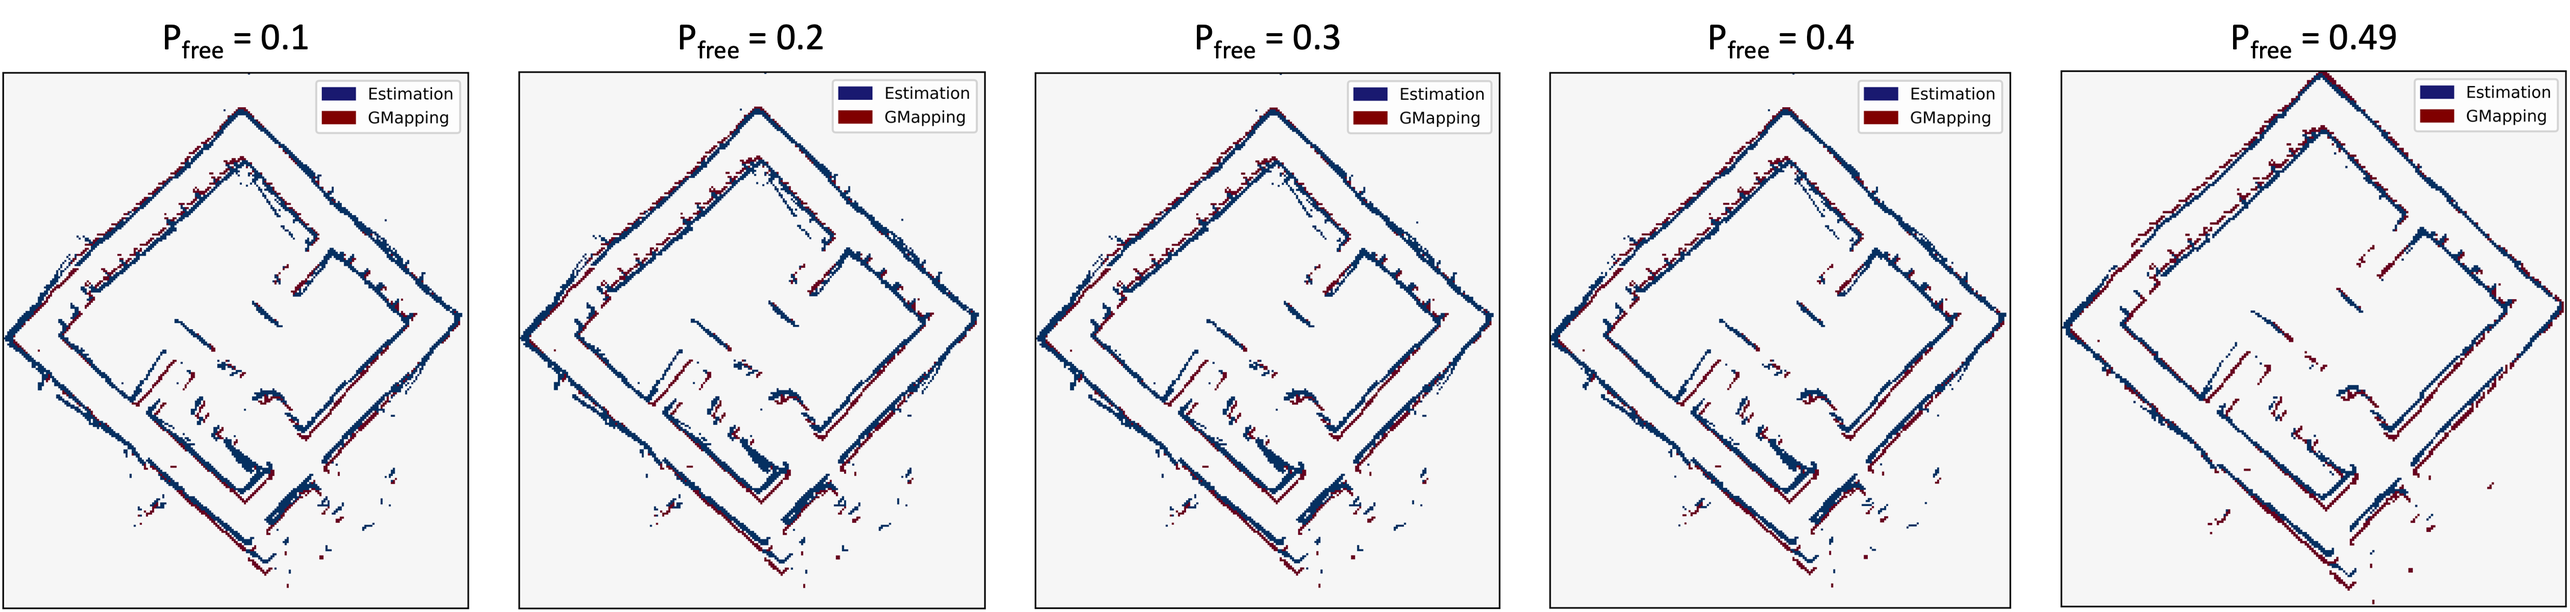
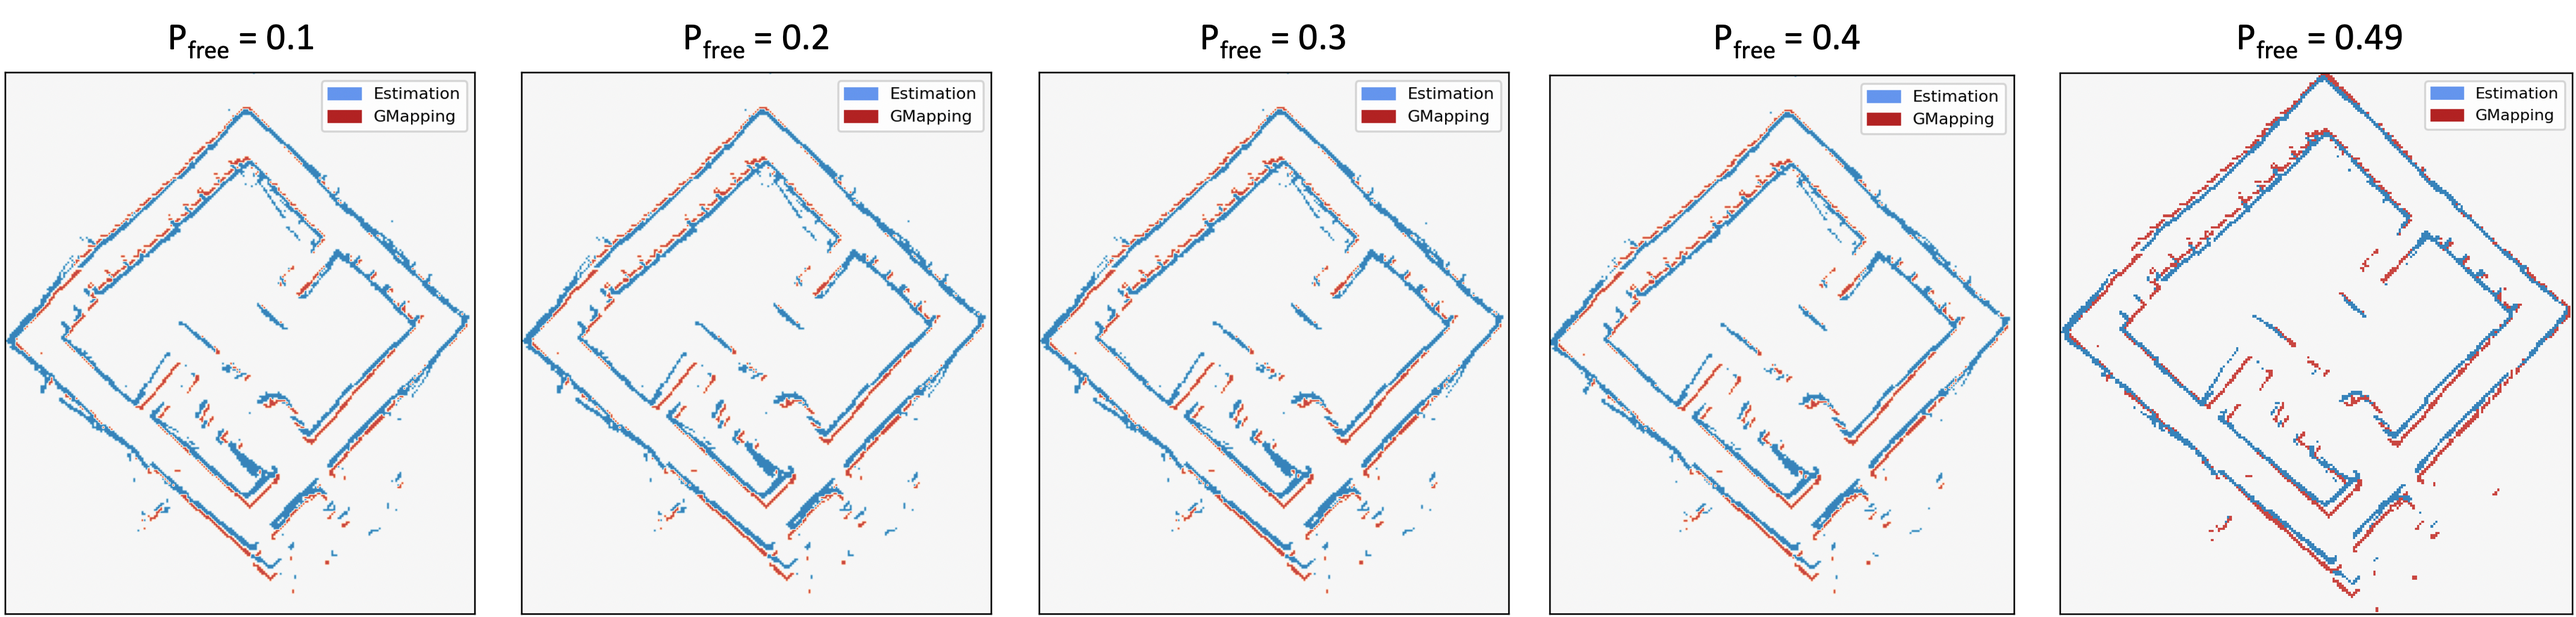
compare

diff --git a/automated-with-comparison/mapping-comparison/comparison/image_comparison.py b/automated-with-comparison/mapping-comparison/comparison/image_comparison.py
@@ -140,7 +140,7 @@ def get_compare(groud_truth_file: str, image_file:str, resolution:float):
 
 	## OCCUPIED
 	# Iterative closest point
-	_, new_pc_image_occupied = icp(pc_ground_truth_occupied, pc_image_occupied, distance_threshold= 100, max_iterations=100, point_pairs_threshold=800, convergence_rotation_threshold=1e-4, verbose=True)
+	_, new_pc_image_occupied = icp(pc_ground_truth_occupied, pc_image_occupied, distance_threshold= 100, max_iterations=1000, point_pairs_threshold=800, convergence_rotation_threshold=1e-4, verbose=True)
 	map_new_image_occupied = np.intp(new_pc_image_occupied/resolution)
 
 	# Confirm transformation
@@ -163,7 +163,7 @@ def get_compare(groud_truth_file: str, image_file:str, resolution:float):
 	
 	## TOTAL
 	# Iterative closest point
-	trans2, new_pc_image = icp(pc_ground_truth, pc_image, distance_threshold= 100, max_iterations=100, point_pairs_threshold=800, verbose=True)
+	trans2, new_pc_image = icp(pc_ground_truth, pc_image, distance_threshold= 100, max_iterations=1000, point_pairs_threshold=800, verbose=True)
 	map_new_image = np.intp(new_pc_image/resolution)
 
 	aligned_free = pc_image_free
@@ -195,13 +195,13 @@ def get_compare(groud_truth_file: str, image_file:str, resolution:float):
 	prob_map = np.zeros((size_x_prob, size_y_prob))
 	
 	
-	compare_map[map_ground_truth[:,0] - min(map_ground_truth[:,0].min(), map_new_image[:,0].min()), map_ground_truth[:,1]- min(map_ground_truth[:,1].min(), map_new_image[:,1].min())] = 1
-	compare_map[map_ground_truth[:,0] - min(map_ground_truth[:,0].min(), map_new_image[:,0].min())+1, map_ground_truth[:,1]- min(map_ground_truth[:,1].min(), map_new_image[:,1].min())] = 1
-	compare_map[map_ground_truth[:,0] - min(map_ground_truth[:,0].min(), map_new_image[:,0].min()), map_ground_truth[:,1]- min(map_ground_truth[:,1].min(), map_new_image[:,1].min())+1] = 1
+	compare_map[map_ground_truth[:,0] - min(map_ground_truth[:,0].min(), map_new_image[:,0].min()), map_ground_truth[:,1]- min(map_ground_truth[:,1].min(), map_new_image[:,1].min())] = -1
+	compare_map[map_ground_truth[:,0] - min(map_ground_truth[:,0].min(), map_new_image[:,0].min())+1, map_ground_truth[:,1]- min(map_ground_truth[:,1].min(), map_new_image[:,1].min())] = -1
+	compare_map[map_ground_truth[:,0] - min(map_ground_truth[:,0].min(), map_new_image[:,0].min()), map_ground_truth[:,1]- min(map_ground_truth[:,1].min(), map_new_image[:,1].min())+1] = -1
 
-	compare_map[(map_new_image[:,0]- min(map_ground_truth[:,0].min(), map_new_image[:,0].min())), (map_new_image[:,1] - min(map_ground_truth[:,1].min(), map_new_image[:,1].min()))] = 3
-	compare_map[(map_new_image[:,0]- min(map_ground_truth[:,0].min(), map_new_image[:,0].min())+1), (map_new_image[:,1] - min(map_ground_truth[:,1].min(), map_new_image[:,1].min()))] = 3
-	compare_map[(map_new_image[:,0]- min(map_ground_truth[:,0].min(), map_new_image[:,0].min())), (map_new_image[:,1] - min(map_ground_truth[:,1].min(), map_new_image[:,1].min()))+1] = 3
+	compare_map[(map_new_image[:,0]- min(map_ground_truth[:,0].min(), map_new_image[:,0].min())), (map_new_image[:,1] - min(map_ground_truth[:,1].min(), map_new_image[:,1].min()))] = 1
+	compare_map[(map_new_image[:,0]- min(map_ground_truth[:,0].min(), map_new_image[:,0].min())+1), (map_new_image[:,1] - min(map_ground_truth[:,1].min(), map_new_image[:,1].min()))] = 1
+	compare_map[(map_new_image[:,0]- min(map_ground_truth[:,0].min(), map_new_image[:,0].min())), (map_new_image[:,1] - min(map_ground_truth[:,1].min(), map_new_image[:,1].min()))+1] = 1
 
 	prob_map[(aligned_free[:,0]-min(aligned_free[:,0].min(), aligned_occupied[:,0].min())), (aligned_free[:,1] - min(aligned_free[:,1].min(), aligned_occupied[:,1].min()))] = 1
 	prob_map[(aligned_free[:,0]-min(aligned_free[:,0].min(), aligned_occupied[:,0].min())+1), (aligned_free[:,1] - min(aligned_free[:,1].min(), aligned_occupied[:,1].min()))] = 1
@@ -266,9 +266,9 @@ def get_compare(groud_truth_file: str, image_file:str, resolution:float):
 	algo_class_overall[(map_new_image[:,0]- overall_x_min+1), (map_new_image[:,1] - overall_y_min)] = 1
 	algo_class_overall[(map_new_image[:,0]- overall_x_min), (map_new_image[:,1] - overall_y_min)+1] = 1
 
-	plt.imshow(compare_map_0, cmap="RdBu")
-	legend_red = mpatches.Patch(color = 'maroon', label = "GMapping")
-	legend_blue = mpatches.Patch(color = 'midnightblue', label = "Estimation")	
+	plt.imshow(compare_map_0, cmap="RdBu", vmin=-1.5, vmax=1.5)
+	legend_red = mpatches.Patch(color = 'firebrick', label = "GMapping")
+	legend_blue = mpatches.Patch(color = 'cornflowerblue', label = "Estimation")	
 	plt.legend(handles=[legend_blue, legend_red], loc='upper right', prop = { "size": 8 })
 	plt.tick_params(left = False, right = False , labelleft = False ,
                 	labelbottom = False, bottom = False)
@@ -278,20 +278,25 @@ def get_compare(groud_truth_file: str, image_file:str, resolution:float):
 	plt.imshow(prob_map, cmap="Blues")
 	plt.show()
 
-	plt.imshow(compare_map, cmap="Blues")
+	plt.imshow(compare_map, cmap="RdBu", vmin=-1.5, vmax=1.5)
+	legend_red = mpatches.Patch(color = 'firebrick', label = "GMapping")
+	legend_blue = mpatches.Patch(color = 'cornflowerblue', label = "Estimation")	
+	plt.legend(handles=[legend_blue, legend_red], loc='upper right', prop = { "size": 8 })
+	plt.tick_params(left = False, right = False , labelleft = False ,
+                	labelbottom = False, bottom = False)
 	plt.show()
 
-	plt.imshow(gt_class, cmap="Blues")
-	plt.show()
+	# plt.imshow(gt_class, cmap="Blues")
+	# plt.show()
 
-	plt.imshow(algo_class, cmap="Blues")
-	plt.show()
+	# plt.imshow(algo_class, cmap="Blues")
+	# plt.show()
 
-	plt.imshow(gt_class_overall, cmap="Blues")
-	plt.show()
+	# plt.imshow(gt_class_overall, cmap="Blues")
+	# plt.show()
 	
-	plt.imshow(algo_class_overall, cmap="Blues")
-	plt.show()
+	# plt.imshow(algo_class_overall, cmap="Blues")
+	# plt.show()
 
 	# Confusion matrix
 	cm_partial = confusion_matrix(gt_class.flatten(), algo_class.flatten(), normalize='all')
@@ -313,6 +318,8 @@ def get_compare(groud_truth_file: str, image_file:str, resolution:float):
 	# print(trans1[-1])
 	# print(trans2[-1])
 
+	print(adnn_eu, error, error_overlap)
+
 	return adnn_eu, msdnn_eu, adnn_cos, msdnn_cos, error, error_overlap, partial_error, pred_error
 
 if __name__ == "__main__":
@@ -327,11 +334,86 @@ if __name__ == "__main__":
 	parser.add_argument("-post", "--post", type=str)
 	parser.add_argument("-post_min", "--postmin", type=str)
 	parser.add_argument("-post_max", "--postmax", type=str)
+	parser.add_argument("-thick", "--thick", type=str)
 	parser.add_argument("-res", "--res", type=str)
 	parser.add_argument("-name", "--name", type=str)
 	args = parser.parse_args()
 
-	if args.post == "all":
+	if args.res != "0.1" and args.res != None:
+		logs = ["0.45", "0.47", "0.49"]
+		posts = ["[0.1;0.9]", "[0.196;0.65]"]
+
+		for l in logs:
+			for p in posts:
+				gmapping = parent_dir + "/automated-with-comparison/mapping-comparison/images/" + args.res + "-corredores/map-"+ args.res+".png"
+				map = parent_dir + "/automated-with-comparison/mapping-comparison/images/" + args.res + "-corredores/map_algo-res_" + args.res + "-("+ l + ")--"+ p +"--.png"
+
+				print(map)
+				
+				adnn_eu, msdnn_eu, adnn_cos, msdnn_cos, error, error_overlap, partials, pred_error = get_compare(gmapping, map, resolution=0.1)
+				
+				#save = input("Y to save: ")
+				save = "Y"
+				if save == "Y":
+					if os.path.exists(parent_dir + "/automated-with-comparison/mapping-comparison/data/data_compare.txt"):
+						file = open(parent_dir + "/automated-with-comparison/mapping-comparison/data/data_compare.txt", "a")
+					else:
+						file = open(parent_dir + "/automated-with-comparison/mapping-comparison/data/data_compare.txt", "x")
+						file.write("Name\tResolution\tLog free\tP min\tP max\tADDN_eu\tMSDDN_eu\tADDN_cos\tMSDDN_cos\tError\tError unknown\tError free\tError occupied\n")
+								
+					file.write(str(args.name) + "\t" + str(args.res) + "\t" + str(l) + "\t" + str(p) + "\t" + str(adnn_eu) + "\t" + str(error) + "\t" + str(error_overlap) + "\n")
+					file.close()
+				else:
+					print("No values were saved, since 'Y' was not pressed.")
+
+	elif args.thick == "all":
+		thickness = ["0.1", "0.2", "0.3", "0.4", "0.5", "1.0"]
+
+		for t in thickness:
+			gmapping = parent_dir + "/automated-with-comparison/mapping-comparison/images/wallthickness-images/map.png"
+			map = parent_dir + "/automated-with-comparison/mapping-comparison/images/wallthickness-images/map_algo-res_0.1-(0.49)--[0.1;0.9]--"+ t +"thick.png"
+
+			print(map)
+			
+			adnn_eu, msdnn_eu, adnn_cos, msdnn_cos, error, error_overlap, partials, pred_error = get_compare(gmapping, map, resolution=0.1)
+			
+			#save = input("Y to save: ")
+			save = "Y"
+			if save == "Y":
+				if os.path.exists(parent_dir + "/automated-with-comparison/mapping-comparison/data/data_compare.txt"):
+					file = open(parent_dir + "/automated-with-comparison/mapping-comparison/data/data_compare.txt", "a")
+				else:
+					file = open(parent_dir + "/automated-with-comparison/mapping-comparison/data/data_compare.txt", "x")
+					file.write("Name\tResolution\tLog free\tP min\tP max\tADDN_eu\tMSDDN_eu\tADDN_cos\tMSDDN_cos\tError\tError unknown\tError free\tError occupied\n")
+							
+				file.write(str(args.name) + "\t" + str(args.res) + "\t" + str(t) + "\t" + str(adnn_eu) + "\t" + str(error) + "\t" + str(error_overlap) + "\n")
+				file.close()
+			else:
+				print("No values were saved, since 'Y' was not pressed.")
+	
+	elif args.thick != None:
+		gmapping = parent_dir + "/automated-with-comparison/mapping-comparison/images/wallthickness-images/map.png"
+		map = parent_dir + "/automated-with-comparison/mapping-comparison/images/wallthickness-images/map_algo-res_0.1-(0.49)--[0.1;0.9]--"+ args.thick +"thick.png"
+
+		print(map)
+		
+		adnn_eu, msdnn_eu, adnn_cos, msdnn_cos, error, error_overlap, partials, pred_error = get_compare(gmapping, map, resolution=0.1)
+		
+		#save = input("Y to save: ")
+		save = "Y"
+		if save == "Y":
+			if os.path.exists(parent_dir + "/automated-with-comparison/mapping-comparison/data/data_compare.txt"):
+				file = open(parent_dir + "/automated-with-comparison/mapping-comparison/data/data_compare.txt", "a")
+			else:
+				file = open(parent_dir + "/automated-with-comparison/mapping-comparison/data/data_compare.txt", "x")
+				file.write("Name\tResolution\tLog free\tP min\tP max\tADDN_eu\tMSDDN_eu\tADDN_cos\tMSDDN_cos\tError\tError unknown\tError free\tError occupied\n")
+						
+			file.write(str(args.name) + "\t" + str(args.res) + "\t" + str(args.thick) + "\t" + str(adnn_eu) + "\t" + str(error) + "\t" + str(error_overlap) + "\n")
+			file.close()
+		else:
+			print("No values were saved, since 'Y' was not pressed.")
+
+	elif args.post == "all":
 		mins = ["0.45", "0.15", "0.196", "0.25", "0.1", "0.3", "0.45"]
 		maxs = ["0.55", "0.65", "0.65", "0.65", "0.9", "0.9", "0.9"]
 
@@ -360,15 +442,15 @@ if __name__ == "__main__":
 				print("No values were saved, since 'Y' was not pressed.")
 	
 	elif args.postmin != None:
-		gmapping = parent_dir + "/automated-with-comparison/mapping-comparison/images/0.45-0.49-images/map.png"
-		map = parent_dir + "/automated-with-comparison/mapping-comparison/images/0.45-0.49-images/map_algo-res_" + str(args.res) + "-(" + str(args.pfree) + ")--[" + str(args.postmin) + ";" + str(args.postmax) + "]--.png"
+		gmapping = parent_dir + "/automated-with-comparison/mapping-comparison/images/deec-images/map-deec.png"
+		map = parent_dir + "/automated-with-comparison/mapping-comparison/images/deec-images/map_algo-res_" + str(args.res) + "-(" + str(args.pfree) + ")--[" + str(args.postmin) + ";" + str(args.postmax) + "]--.png"
 
 		print(map)
 		
 		adnn_eu, msdnn_eu, adnn_cos, msdnn_cos, error, error_overlap, partials, pred_error = get_compare(gmapping, map, resolution=0.1)
 
 		#save = input("Y to save: ")
-		save = "n"
+		save = "Y"
 		if save == "Y":
 			if os.path.exists(parent_dir + "/automated-with-comparison/mapping-comparison/data/data_compare.txt"):
 				file = open(parent_dir + "/automated-with-comparison/mapping-comparison/data/data_compare.txt", "a")

diff --git a/automated-with-comparison/mapping-comparison/comparison/image_comparison_aldrabado.py b/automated-with-comparison/mapping-comparison/comparison/image_comparison_aldrabado.py
@@ -151,10 +151,10 @@ def get_compare(groud_truth_file: str, image_file:str, resolution:float):
 	max_x = min(map_new_image_occupied[:,0].min(), map_ground_truth_occupied[:,0].min()) 
 	max_y = min(map_new_image_occupied[:,1].min(), map_ground_truth_occupied[:,1].min())
 
-	compare_map_0[map_ground_truth_occupied[:,0] - max_x, map_ground_truth_occupied[:,1] - max_y] = 1
+	compare_map_0[map_ground_truth_occupied[:,0] - max_x, map_ground_truth_occupied[:,1] - max_y] = -1
 	#compare_map[map_image[:,0]- map_image[:,0].min(), map_image[:,1]- map_image[:,1].min()] = 2
 	
-	compare_map_0[map_new_image_occupied[:,0] - max_x, map_new_image_occupied[:,1] - max_y] = -1
+	compare_map_0[map_new_image_occupied[:,0] - max_x, map_new_image_occupied[:,1] - max_y] = 1
 	# cdict = {'white': [(0.0)], 'blue':[(1.0)], 'red': [(3.0)]}
 
 	## TOTAL
@@ -193,13 +193,13 @@ def get_compare(groud_truth_file: str, image_file:str, resolution:float):
 	size_y_prob = max(aligned_free[:,1].max() - aligned_free[:,1].min(), aligned_occupied[:,1].max()-aligned_occupied[:,1].min()) + np.abs(aligned_free[:,1].min() - aligned_occupied[:,1].min()) + 2
 	prob_map = np.zeros((size_x_prob, size_y_prob))
 	
-	compare_map[map_ground_truth[:,0] - min(map_ground_truth[:,0].min(), map_new_image[:,0].min()), map_ground_truth[:,1]- min(map_ground_truth[:,1].min(), map_new_image[:,1].min())] = 1
-	compare_map[map_ground_truth[:,0] - min(map_ground_truth[:,0].min(), map_new_image[:,0].min())+1, map_ground_truth[:,1]- min(map_ground_truth[:,1].min(), map_new_image[:,1].min())] = 1
-	compare_map[map_ground_truth[:,0] - min(map_ground_truth[:,0].min(), map_new_image[:,0].min()), map_ground_truth[:,1]- min(map_ground_truth[:,1].min(), map_new_image[:,1].min())+1] = 1
+	compare_map[map_ground_truth[:,0] - min(map_ground_truth[:,0].min(), map_new_image[:,0].min()), map_ground_truth[:,1]- min(map_ground_truth[:,1].min(), map_new_image[:,1].min())] = -1
+	compare_map[map_ground_truth[:,0] - min(map_ground_truth[:,0].min(), map_new_image[:,0].min())+1, map_ground_truth[:,1]- min(map_ground_truth[:,1].min(), map_new_image[:,1].min())] = -1
+	compare_map[map_ground_truth[:,0] - min(map_ground_truth[:,0].min(), map_new_image[:,0].min()), map_ground_truth[:,1]- min(map_ground_truth[:,1].min(), map_new_image[:,1].min())+1] = -1
 
-	compare_map[(map_new_image[:,0]- min(map_ground_truth[:,0].min(), map_new_image[:,0].min())), (map_new_image[:,1] - min(map_ground_truth[:,1].min(), map_new_image[:,1].min()))] = 3
-	compare_map[(map_new_image[:,0]- min(map_ground_truth[:,0].min(), map_new_image[:,0].min())+1), (map_new_image[:,1] - min(map_ground_truth[:,1].min(), map_new_image[:,1].min()))] = 3
-	compare_map[(map_new_image[:,0]- min(map_ground_truth[:,0].min(), map_new_image[:,0].min())), (map_new_image[:,1] - min(map_ground_truth[:,1].min(), map_new_image[:,1].min()))+1] = 3
+	compare_map[(map_new_image[:,0]- min(map_ground_truth[:,0].min(), map_new_image[:,0].min())), (map_new_image[:,1] - min(map_ground_truth[:,1].min(), map_new_image[:,1].min()))] = 1
+	compare_map[(map_new_image[:,0]- min(map_ground_truth[:,0].min(), map_new_image[:,0].min())+1), (map_new_image[:,1] - min(map_ground_truth[:,1].min(), map_new_image[:,1].min()))] = 1
+	compare_map[(map_new_image[:,0]- min(map_ground_truth[:,0].min(), map_new_image[:,0].min())), (map_new_image[:,1] - min(map_ground_truth[:,1].min(), map_new_image[:,1].min()))+1] = 1
 
 	prob_map[(aligned_free[:,0]-min(aligned_free[:,0].min(), aligned_occupied[:,0].min())), (aligned_free[:,1] - min(aligned_free[:,1].min(), aligned_occupied[:,1].min()))] = 1
 	prob_map[(aligned_free[:,0]-min(aligned_free[:,0].min(), aligned_occupied[:,0].min())+1), (aligned_free[:,1] - min(aligned_free[:,1].min(), aligned_occupied[:,1].min()))] = 1
@@ -263,9 +263,9 @@ def get_compare(groud_truth_file: str, image_file:str, resolution:float):
 	algo_class_overall[(map_new_image[:,0]- overall_x_min+1), (map_new_image[:,1] - overall_y_min)] = 1
 	algo_class_overall[(map_new_image[:,0]- overall_x_min), (map_new_image[:,1] - overall_y_min)+1] = 1
 
-	plt.imshow(compare_map_0, cmap="RdBu")
-	legend_red = mpatches.Patch(color = 'maroon', label = "GMapping")
-	legend_blue = mpatches.Patch(color = 'midnightblue', label = "Estimation")	
+	plt.imshow(compare_map_0, cmap="RdBu", vmin=-1.5, vmax=1.5)
+	legend_red = mpatches.Patch(color = 'firebrick', label = "GMapping")
+	legend_blue = mpatches.Patch(color = 'cornflowerblue', label = "Estimation")	
 	plt.legend(handles=[legend_blue, legend_red], loc='upper right', prop = { "size": 8 })
 	plt.tick_params(left = False, right = False , labelleft = False ,
                 	labelbottom = False, bottom = False)
@@ -275,20 +275,25 @@ def get_compare(groud_truth_file: str, image_file:str, resolution:float):
 	plt.imshow(prob_map, cmap="Blues")
 	plt.show()
 
-	plt.imshow(compare_map, cmap="Blues")
+	plt.imshow(compare_map, cmap="RdBu", vmin=-1.5, vmax=1.5)
+	legend_red = mpatches.Patch(color = 'firebrick', label = "GMapping")
+	legend_blue = mpatches.Patch(color = 'cornflowerblue', label = "Estimation")	
+	plt.legend(handles=[legend_blue, legend_red], loc='upper right', prop = { "size": 8 })
+	plt.tick_params(left = False, right = False , labelleft = False ,
+                	labelbottom = False, bottom = False)
 	plt.show()
 
-	plt.imshow(gt_class, cmap="Blues")
-	plt.show()
+	# plt.imshow(gt_class, cmap="Blues")
+	# plt.show()
 
-	plt.imshow(algo_class, cmap="Blues")
-	plt.show()
+	# plt.imshow(algo_class, cmap="Blues")
+	# plt.show()
 
-	plt.imshow(gt_class_overall, cmap="Blues")
-	plt.show()
+	# plt.imshow(gt_class_overall, cmap="Blues")
+	# plt.show()
 	
-	plt.imshow(algo_class_overall, cmap="Blues")
-	plt.show()
+	# plt.imshow(algo_class_overall, cmap="Blues")
+	# plt.show()
 
 	# Confusion matrix
 	cm_partial = confusion_matrix(gt_class.flatten(), algo_class.flatten(), normalize='all')
@@ -329,8 +334,8 @@ if __name__ == "__main__":
 		pfrees = np.round(np.arange(0.10, 0.50, 0.01),2)
 		for args.pfree in pfrees:
 			print(args.pfree)
-			gmapping = parent_dir + "/automated-with-comparison/mapping-comparison/images/sr manel - pfree/map.png"
-			map = parent_dir + "/automated-with-comparison/mapping-comparison/images/sr manel - pfree/map_algo-" + str(args.pfree) + ".png"
+			gmapping = parent_dir + "/automated-with-comparison/mapping-comparison/images/deec-images/map-deec.png"
+			map = parent_dir + "/automated-with-comparison/mapping-comparison/images/srManel-images/map_algo-res_0.1-("+ str(args.pfree) + ")--[0.196;0.65]--" + ".png"
 
 			print(map)
 			
@@ -352,15 +357,15 @@ if __name__ == "__main__":
 			else:
 				print("No values were saved, since 'Y' was not pressed.")
 	else:
-		gmapping = parent_dir + "/automated-with-comparison/mapping-comparison/images/sr manel - pfree/map.png"
-		map = parent_dir + "/automated-with-comparison/mapping-comparison/images/sr manel - pfree/map_algo-" + str(args.pfree) + ".png"
+		gmapping = parent_dir + "/automated-with-comparison/mapping-comparison/images/deec-images/map-deec.png"
+		map = parent_dir + "/automated-with-comparison/mapping-comparison/images/deec-images/map_algo-res_0.1-("+ str(args.pfree) + ")--[0.196;0.65]--" + ".png"
 
 		print(map)
 		
 		adnn_eu, msdnn_eu, adnn_cos, msdnn_cos, error, error_overlap, partials, pred_error = get_compare(gmapping, map, resolution=0.1)
 
 		#save = input("Y to save: ")
-		save = "n"
+		save = "Y"
 		if save == "Y":
 			if os.path.exists(parent_dir + "/automated-with-comparison/mapping-comparison/data/data_compare.txt"):
 				file = open(parent_dir + "/automated-with-comparison/mapping-comparison/data/data_compare.txt", "a")
